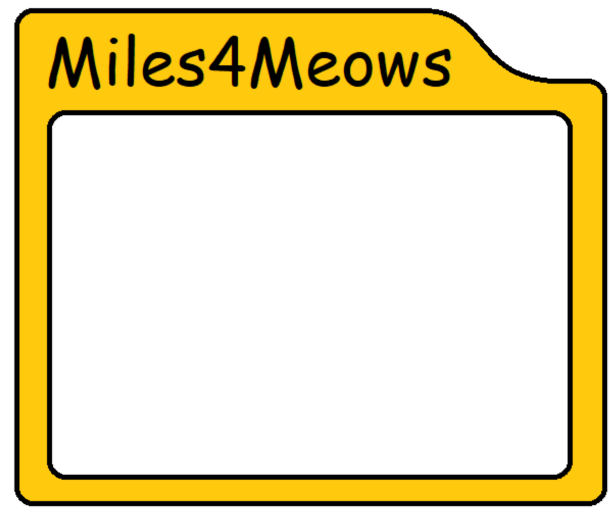
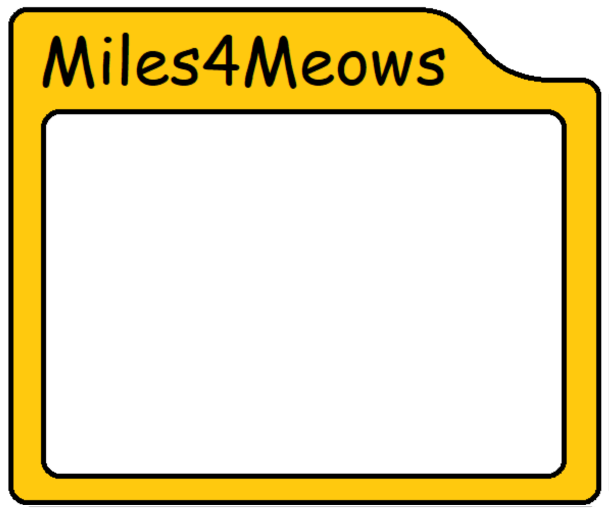
picture frames

Changed region(s): [[0.0, 0.0, 0.9967, 0.9981]]

diff --git a/display.js b/display.js
@@ -1,0 +1,67 @@
+import { StatusBar } from 'expo-status-bar';
+import React from 'react';
+import { Image, StyleSheet, Text, View, Dimensions } from 'react-native';
+import topFrame from './assets/frame-tp.png';
+import bottomFrame from './assets/frameInverted-tp.png';
+import CatImage from './CatImage';
+
+const height = Dimensions.get('window').height;
+const width = Dimensions.get('window').width;
+
+class Frames extends React.Component {
+  render() {
+    return (
+      <View style={styles.container}>
+	    <View style={styles.backgroundContainer}>
+	      <CatImage style={{flex: 1, flexDirection: 'column'}} />
+		</View>
+		<View style={styles.overlay}>
+		  <Image source={topFrame} style={styles.topFrame} />
+		  <Image source={bottomFrame} style={styles.bottomFrame} />
+		  <StatusBar style="auto" />
+	    </View>
+      </View>
+	);
+  }
+}
+
+const styles = StyleSheet.create({
+  backgroundContainer: {
+    position: 'absolute',
+	top: 200,
+	bottom: 0,
+	left: 100,
+	right: 0,
+  },
+  overlay: {
+    backgroundColor: 'rgba(255, 255, 255, 0)',
+	flexDirection: 'column',
+	height: height,
+	alignItems: 'center',
+	justifyContent: 'flex-start',
+	position: 'absolute',
+	  top: height * 0.07,
+	  bottom: 0,
+	  left: 0,
+	  right: 0,
+  },
+  container: {
+	  flex: 1,
+	  alignItems: 'center',
+  },
+  topFrame: {
+	  width: width,
+	  height: height * 0.4,
+	  resizeMode: 'contain',
+	  marginLeft: width * 0.005,
+  },
+  bottomFrame: {
+	width: width,
+	height: height * 0.4,
+	resizeMode: 'contain',
+	marginTop: height * 0.07,
+	marginLeft: width * 0.005,
+  }
+});
+
+export default Frames;

diff --git a/App.js b/App.js
@@ -1,25 +1,15 @@
 import { StatusBar } from 'expo-status-bar';
 import React from 'react';
-import { Image, StyleSheet, Text, View } from 'react-native';
+import { Image, StyleSheet, Text, View, Dimensions } from 'react-native';
 import CatImage from './CatImage';
+import Frame from './display';
+import topFrame from './assets/frame-tp.png';
+import bottomFrame from './assets/frameInverted-tp.png';
+
+const height = Dimensions.get('window').height;
+const width = Dimensions.get('window').width;
 
 export default function App() {
-  return (
-    <View style={styles.container}>
-      <CatImage/>
-      <Text style={{color: '#888', fontSize: 30}}>
-          Hello World!
-        </Text>
-      <StatusBar style="auto" />
-    </View>
-  );
+	
+  return ( <Frame/> );
 }
-
-const styles = StyleSheet.create({
-  container: {
-    flex: 1,
-    backgroundColor: '#fff',
-    alignItems: 'center',
-    justifyContent: 'center',
-  },
-});
